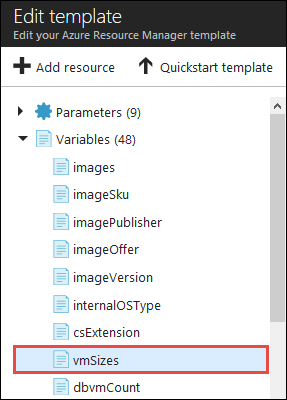
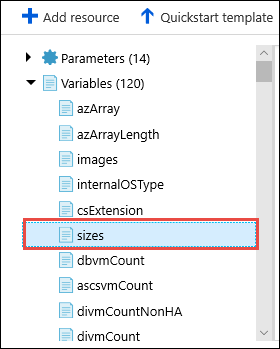
Issue #13 fix

diff --git a/Hands-on lab/HOL step-by step - SAP NetWeaver on Azure.md b/Hands-on lab/HOL step-by step - SAP NetWeaver on Azure.md
@@ -9,7 +9,7 @@ Hands-on lab step-by-step
 </div>
 
 <div class="MCWHeader3">
-December 2018
+April 2019
 </div>
 
 
@@ -479,31 +479,31 @@ In this task, you will deploy additional Azure VMs that will be hosting your SAP
 
 -   Health Probe port of s03-lb-db load balancer: **59999**
 
-8.  From the lab computer, start another instance of the Web browser, and navigate to <https://github.com/Azure/azure-quickstart-templates/tree/master/sap-3-tier-marketplace-image-md>.
+1.  From the lab computer, start another instance of the Web browser, and navigate to <https://github.com/Azure/azure-quickstart-templates/tree/master/sap-3-tier-marketplace-image-md>.
 
-9.  On the **SAP NetWeaver 3-tier compatible template using a Marketplace image - MD** page, select **Deploy to Azure**.
+2.  On the **SAP NetWeaver 3-tier compatible template using a Marketplace image - MD** page, select **Deploy to Azure**.
 
     ![The Deploy to Azure button is selected on the SAP NetWeaver 3-tier compatible template using a Marketplace image - MD page.](images/Hands-onlabstep-bystep-SAPonAzureimages/media/image12.png)
 
-10. The Web browser window should automatically get redirected to the Azure portal and display the **SAP NW 3-tier (managed disk)** blade.
+3. The Web browser window should automatically get redirected to the Azure portal and display the **SAP NW 3-tier (managed disk)** blade.
 
-11. Select **Edit template**.
+4. Select **Edit template**.
 
     ![The SAP NW 3-tier (managed disk) blade displays with Edit template selected.](images/Hands-onlabstep-bystep-SAPonAzureimages/media/image13.png)
 
-12. On the **Edit template** blade, expand the **Variables** node, and scroll down to the **vmSizes** subnode.
+5. On the **Edit template** blade, expand the **Variables** node, and scroll down to the **sizes** subnode.
 
     ![Screenshot of the Edit template blade. Under Variables, vmSizes is selected.](images/Hands-onlabstep-bystep-SAPonAzureimages/media/image14.png)
 
-13. In the editor window, navigate to the **HA** subsection of the **Demo** section, and modify the values of **dbserversize, ascsserversize** and **diserversize** keys per the following screenshot:
+6. In the editor window, navigate to the **HA** subsection of the **Demo** section, and modify the values of **dbserversize, ascsserversize** and **diserversize** keys per the following screenshot:
 
     ![Screenshot of the editor windows with the previously mentioned keys displaying.](images/Hands-onlabstep-bystep-SAPonAzureimages/media/image15.png)
 
-14. Select **Save** to save your changes.
+7. Select **Save** to save your changes.
 
     ![Screenshot of the Save button.](images/Hands-onlabstep-bystep-SAPonAzureimages/media/image16.png)
 
-15. Back on the **SAP NW 3-tier compatible Marketplace image** blade, specify the following settings:
+8. Back on the **SAP NW 3-tier compatible Marketplace image** blade, specify the following settings:
 
     -   Subscription: **Your Azure subscription name**.
 
@@ -537,31 +537,32 @@ In this task, you will deploy additional Azure VMs that will be hosting your SAP
 
     ![Screenshot of the Windows PowerShell window with results from the previous commands displaying.](images/Hands-onlabstep-bystep-SAPonAzureimages/media/image17.png)
 
-16. Enable the checkbox labeled **I agree to the terms and conditions stated above**, and select **Purchase**.
+9. Enable the checkbox labeled **I agree to the terms and conditions stated above**, and select **Purchase**.
 
     ![Screenshot of the Terms and Conditions page.](images/Hands-onlabstep-bystep-SAPonAzureimages/media/image9.png)
 
-17. Wait for the deployment to complete. This might take about 10 minutes. You can verify the deployment completed successfully by viewing the **Deployments** entry of the s03-RG resource group blade in the Azure portal.
+10. Wait for the deployment to complete. This might take about 10 minutes. You can verify the deployment completed successfully by viewing the **Deployments** entry of the s03-RG resource group blade in the Azure portal.
 
     > **Note**: Disregard any custom script extension errors generated during the template deployment.
 
     ![The s03-RG resource group blade displays in the Azure Portal.](images/Hands-onlabstep-bystep-SAPonAzureimages/media/image18.png)
 
-18. In the Azure portal, navigate to the internal load balancer **s03-lb-ascs**. On the load balancer blade, select **Health probes**, and in the list of probes, select **lb00ProbePortxSCS**.
+11. In the Azure portal, navigate to the internal load balancer **s03-lb-ascs**. On the load balancer blade, select **Health probes**, and in the list of probes, select **lb00ProbePortxSCS**.
 
     ![Screenshot of the Load Balancer blade.](images/Hands-onlabstep-bystep-SAPonAzureimages/media/image19.png)
 
-19. Change the value of **Port** from **62000** to **3900**, and select **Save**.
+12. Change the value of **Port** from **62000** to **3900**, and select **Save**.
 
     ![In the S03-lb-ascs blade, the Port field is set to 3900, and the Save button is selected.](images/Hands-onlabstep-bystep-SAPonAzureimages/media/image20.png)
 
-20. In the Azure portal, navigate to the internal load balancer **s03-lb-db**. On the load balancer blade, select **Health probes**, and in the list of probes, select **lb00ProbePortDB**.
+13. In the Azure portal, navigate to the internal load balancer **s03-lb-db**. On the load balancer blade, select **Health probes**, and in the list of probes, select **lb00ProbePortDB**.
 
     ![Screenshot of the Load Balancer blade.](images/Hands-onlabstep-bystep-SAPonAzureimages/media/image21.png)
 
-21. Change the value of **Port** from **62503** to **59999**, and select **Save**.
+14. Change the value of **Port** from **62503** to **59999**, and select **Save**.
 
     ![In the S03-lb-db blade, the Port field is set to 59999, and the Save button is selected.](images/Hands-onlabstep-bystep-SAPonAzureimages/media/image22.png)
+
 
 ### Task 5: Configure IP addresses of Azure VMs and internal load balancers
 
